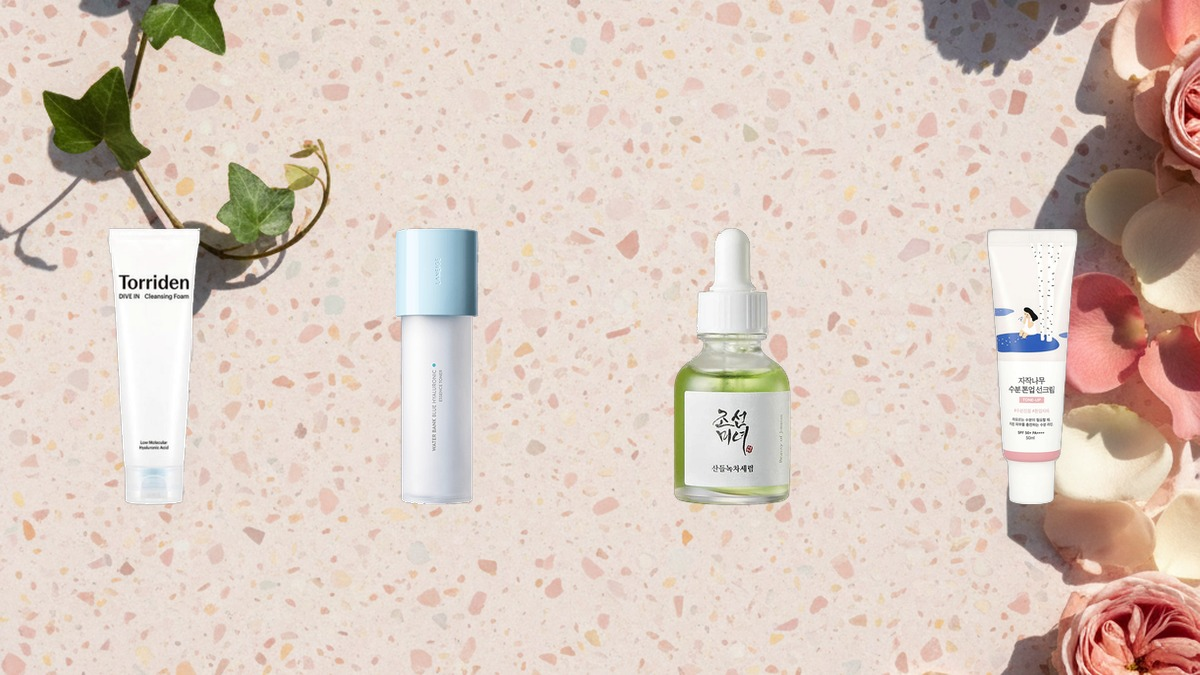
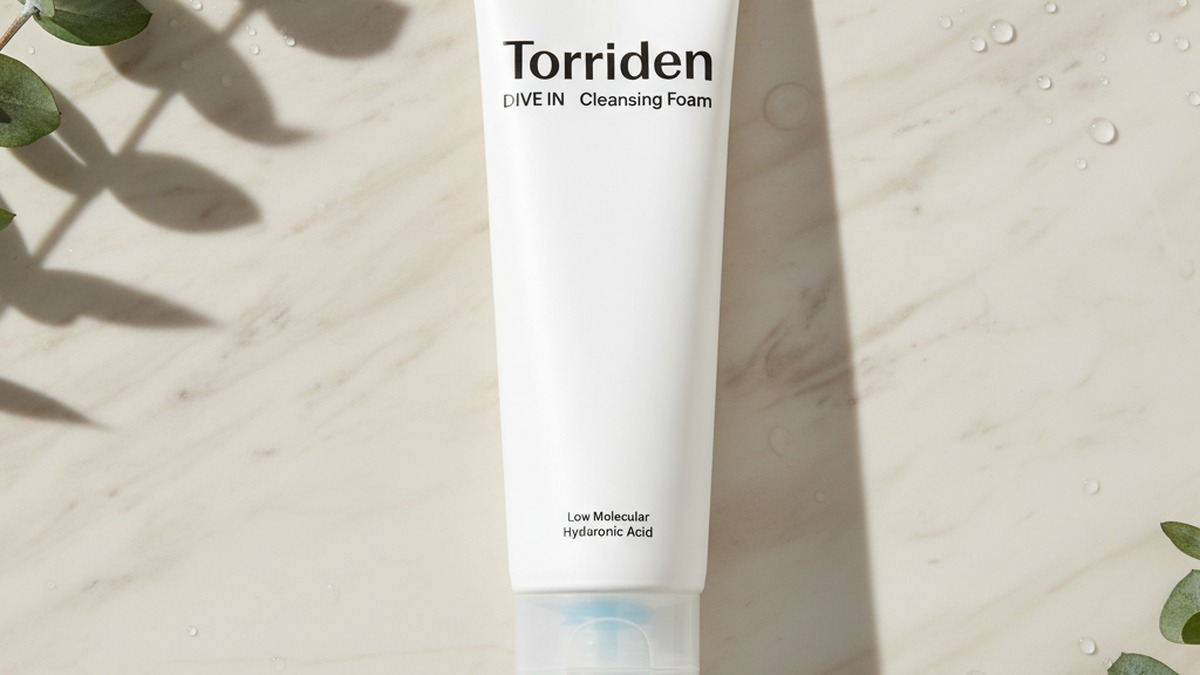
Glow-coded heroes: photo → Gemini → enhanced photo (single-product editorial)
Replaces the previous PIL-composite approach with the simple pipeline you
asked for: take ONE real product photo from mirai-skin.com, upload it to
Gemini 2.5 Flash Image, get back an enhanced editorial hero. No PIL
compositing.

For each of 30 glow-coded drafts:
1. Pick the first product handle linked in the article body
2. Download its og:image from mirai-skin.com
3. Upload to Gemini with a prompt that builds a luxurious K-beauty editorial
   scene around the product (marble/sandstone, soft natural light, botanical
   accents at corners) while preserving the product's labels, brand, and text
4. Crop result to 1200×675 16:9, save as the article's hero

Result: magazine-quality product photography. The product becomes the
centerpiece of a real-looking editorial shot rather than a sticker pasted on
a generated background.

Note: Gemini occasionally introduces minor label tweaks (e.g. brand spelling
or SPF rating). Spot-check before publishing if exact values matter.

30/30 enhanced, 0 failures.

diff --git a/scripts/gemini_enhance_hero.py b/scripts/gemini_enhance_hero.py
@@ -1,0 +1,219 @@
+#!/usr/bin/env python3
+"""
+Take ONE real product photo → upload to Gemini → save enhanced photo.
+
+Per article, picks the first valid product handle linked in the article body,
+downloads its og:image from mirai-skin.com, sends that single image to Gemini
+2.5 Flash Image with an enhancement prompt, saves the response as the hero.
+
+That's it. No PIL composition, no compositing. Just photo → Gemini → photo.
+
+Usage:
+    python3 scripts/gemini_enhance_hero.py --site cosmetics
+    python3 scripts/gemini_enhance_hero.py --site cosmetics --slug <slug>
+"""
+from __future__ import annotations
+import argparse
+import io
+import os
+import re
+import sys
+import time
+from pathlib import Path
+from urllib.parse import urljoin
+
+import requests
+from PIL import Image
+
+try:
+    from dotenv import load_dotenv
+    load_dotenv(Path(__file__).resolve().parent.parent / ".env")
+except ImportError:
+    pass
+
+from google import genai
+from google.genai import types
+
+api_key = os.environ.get("GEMINI_API_KEY")
+if not api_key:
+    print("ERROR: GEMINI_API_KEY not set"); sys.exit(1)
+
+client = genai.Client(api_key=api_key)
+MODEL = "gemini-2.5-flash-image"
+
+ROOT = Path(__file__).resolve().parent.parent
+PRODUCTS_CACHE = Path("/tmp/hero-gen-from-article/products")
+PRODUCTS_CACHE.mkdir(parents=True, exist_ok=True)
+
+SITES = {
+    "cosmetics": ROOT / "cosmetics",
+    "wellness": ROOT / "wellness",
+    "build-coded": ROOT / "build-coded",
+}
+
+session = requests.Session()
+session.headers.update({
+    "User-Agent": "Mozilla/5.0 (Macintosh; Intel Mac OS X 10_15_7) AppleWebKit/537.36 Chrome/124 Safari/537.36",
+})
+
+PRODUCT_LINK_RE = re.compile(r"mirai-skin\.com/products/([a-z0-9-]+)", re.I)
+
+PROMPT = (
+    "Take this attached product photo and use it as the centerpiece of a 16:9 landscape "
+    "editorial hero image for a premium K-beauty blog. Keep the product EXACTLY as it appears "
+    "in the photo — same bottle shape, same label text, same brand name, same Korean characters, "
+    "same ingredient list, same SPF rating. DO NOT redraw or alter the product in any way. "
+    "Around the product, build a luxurious editorial scene: a soft cream marble or warm "
+    "sandstone surface, diffuse natural sunlight from the upper left casting soft shadows, "
+    "a few sprigs of green heartleaf or eucalyptus and small water droplets at the corners "
+    "of the frame — never overlapping the product. Premium beauty magazine aesthetic. "
+    "No text overlays. No watermarks. The product must remain instantly recognizable with "
+    "every label detail intact."
+)
+
+
+def parse_mdx(path: Path):
+    text = path.read_text()
+    m = re.match(r"^---\s*\n(.*?)\n---\s*\n(.*)$", text, re.S)
+    return (m.group(1), m.group(2)) if m else (None, None)
+
+
+def download_product_image(handle: str) -> Path | None:
+    cache = PRODUCTS_CACHE / f"{handle}.jpg"
+    if cache.exists() and cache.stat().st_size > 8000:
+        return cache
+    page = f"https://mirai-skin.com/products/{handle}"
+    try:
+        r = session.get(page, timeout=15, allow_redirects=True)
+        if r.status_code != 200:
+            return None
+        m = re.search(r'<meta\s+property="og:image"\s+content="([^"]+)"', r.text)
+        if not m:
+            return None
+        img_url = m.group(1)
+        if img_url.startswith("//"):
+            img_url = "https:" + img_url
+        elif not img_url.startswith("http"):
+            img_url = urljoin(page, img_url)
+        img_url = re.sub(r"\?.*$", "", img_url)
+        rr = session.get(img_url, timeout=20)
+        if rr.status_code != 200:
+            return None
+        cache.write_bytes(rr.content)
+        return cache
+    except Exception as e:
+        print(f"      [{handle}] download error: {e}")
+        return None
+
+
+def gemini_enhance(input_path: Path, output_path: Path) -> bool:
+    img_bytes = input_path.read_bytes()
+    try:
+        resp = client.models.generate_content(
+            model=MODEL,
+            contents=[
+                PROMPT,
+                types.Part.from_bytes(data=img_bytes, mime_type="image/jpeg"),
+            ],
+            config=types.GenerateContentConfig(response_modalities=["IMAGE", "TEXT"]),
+        )
+        for part in resp.candidates[0].content.parts:
+            if part.inline_data and part.inline_data.mime_type.startswith("image/"):
+                img = Image.open(io.BytesIO(part.inline_data.data)).convert("RGB")
+                # crop to 16:9 if needed
+                target = 16 / 9
+                cur = img.width / img.height
+                if cur > target:
+                    new_w = int(img.height * target)
+                    left = (img.width - new_w) // 2
+                    img = img.crop((left, 0, left + new_w, img.height))
+                elif cur < target:
+                    new_h = int(img.width / target)
+                    top = (img.height - new_h) // 2
+                    img = img.crop((0, top, img.width, top + new_h))
+                img = img.resize((1200, 675), Image.LANCZOS)
+                output_path.parent.mkdir(parents=True, exist_ok=True)
+                img.save(output_path, "JPEG", quality=92)
+                return True
+        # if no image in response, log the text
+        for part in resp.candidates[0].content.parts:
+            if hasattr(part, "text") and part.text:
+                print(f"      gemini returned text instead: {part.text[:160]}")
+    except Exception as e:
+        print(f"      gemini error: {e}")
+    return False
+
+
+def collect_drafts(site_dir: Path):
+    en = site_dir / "src" / "content" / "blog" / "en"
+    out = []
+    for f in sorted(en.glob("*.mdx")):
+        fm, body = parse_mdx(f)
+        if not fm or body is None:
+            continue
+        if not re.search(r"^draft:\s*true\s*$", fm, re.M):
+            continue
+        title_m = re.search(r'title:\s*"([^"]+)"', fm)
+        image_m = re.search(r"^image:\s*([^\n]+)", fm, re.M)
+        handles = list(dict.fromkeys(PRODUCT_LINK_RE.findall(body)))
+        if not handles:
+            continue
+        out.append({
+            "path": f,
+            "slug": f.stem,
+            "title": title_m.group(1) if title_m else f.stem,
+            "image_rel": image_m.group(1).strip() if image_m else f"/images/{f.stem}.jpg",
+            "handles": handles,
+        })
+    return out
+
+
+def main():
+    ap = argparse.ArgumentParser()
+    ap.add_argument("--site", required=True, choices=list(SITES.keys()))
+    ap.add_argument("--slug")
+    ap.add_argument("--limit", type=int)
+    args = ap.parse_args()
+
+    site_dir = SITES[args.site]
+    drafts = collect_drafts(site_dir)
+    if args.slug:
+        drafts = [d for d in drafts if d["slug"] == args.slug]
+    if args.limit:
+        drafts = drafts[: args.limit]
+
+    print(f"[{args.site}] {len(drafts)} drafts to enhance heroes for\n")
+
+    success, fail = 0, 0
+    for d in drafts:
+        print(f"  → {d['slug']}")
+        # Pick first product whose photo we can download
+        product_path = None
+        chosen_handle = None
+        for h in d["handles"]:
+            p = download_product_image(h)
+            if p:
+                product_path = p
+                chosen_handle = h
+                break
+        if not product_path:
+            print("    SKIP: no product photo could be downloaded\n")
+            fail += 1
+            continue
+
+        print(f"    using: {chosen_handle}  ({product_path.stat().st_size//1024}KB)")
+        out_path = site_dir / "public" / d["image_rel"].lstrip("/")
+        ok = gemini_enhance(product_path, out_path)
+        if ok:
+            print(f"    SAVED → {out_path.relative_to(ROOT)}\n")
+            success += 1
+        else:
+            print(f"    FAIL: gemini didn't return an image\n")
+            fail += 1
+        time.sleep(2)
+
+    print(f"\n[done] {success} enhanced, {fail} failed")
+
+
+if __name__ == "__main__":
+    main()
